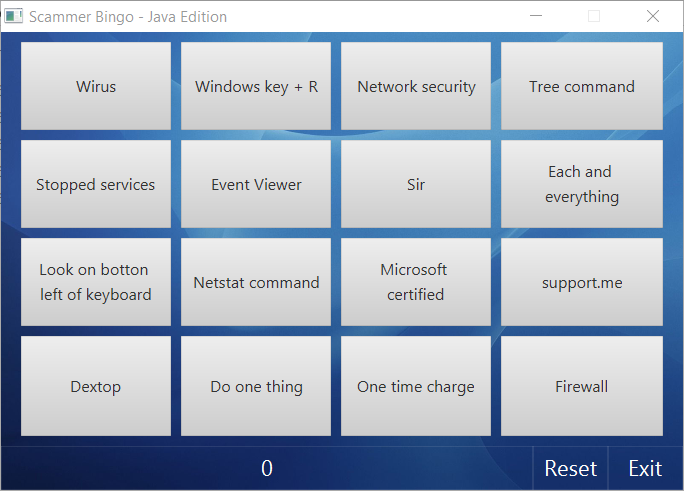
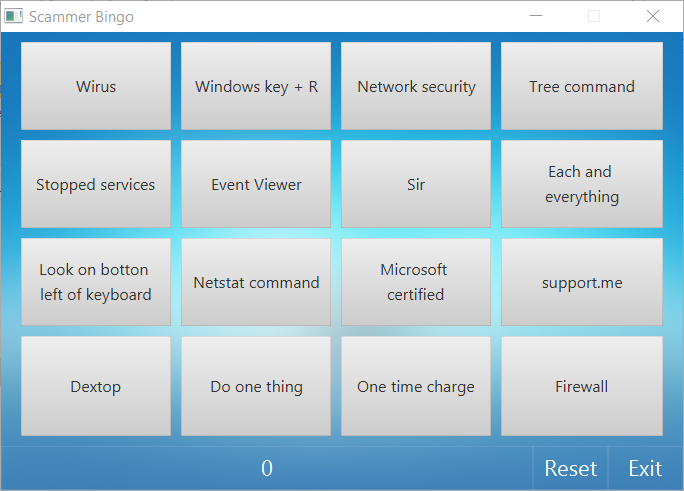
apple bg changed to no copyrighted-issue #3

Changed region(s): [[0.0, 0.0305, 1.0, 1.0]]

diff --git a/src/main/resources/theme.css b/src/main/resources/theme.css
@@ -28,6 +28,6 @@
 }
 
 .root {
-    -fx-background-image: url("https://cloud4.azurewebsites.net/bg-sbr-java.jpg");
+    -fx-background-image: url("http://i.imgur.com/TI1KJrU.jpg");
     -fx-background-size: cover;
 }
